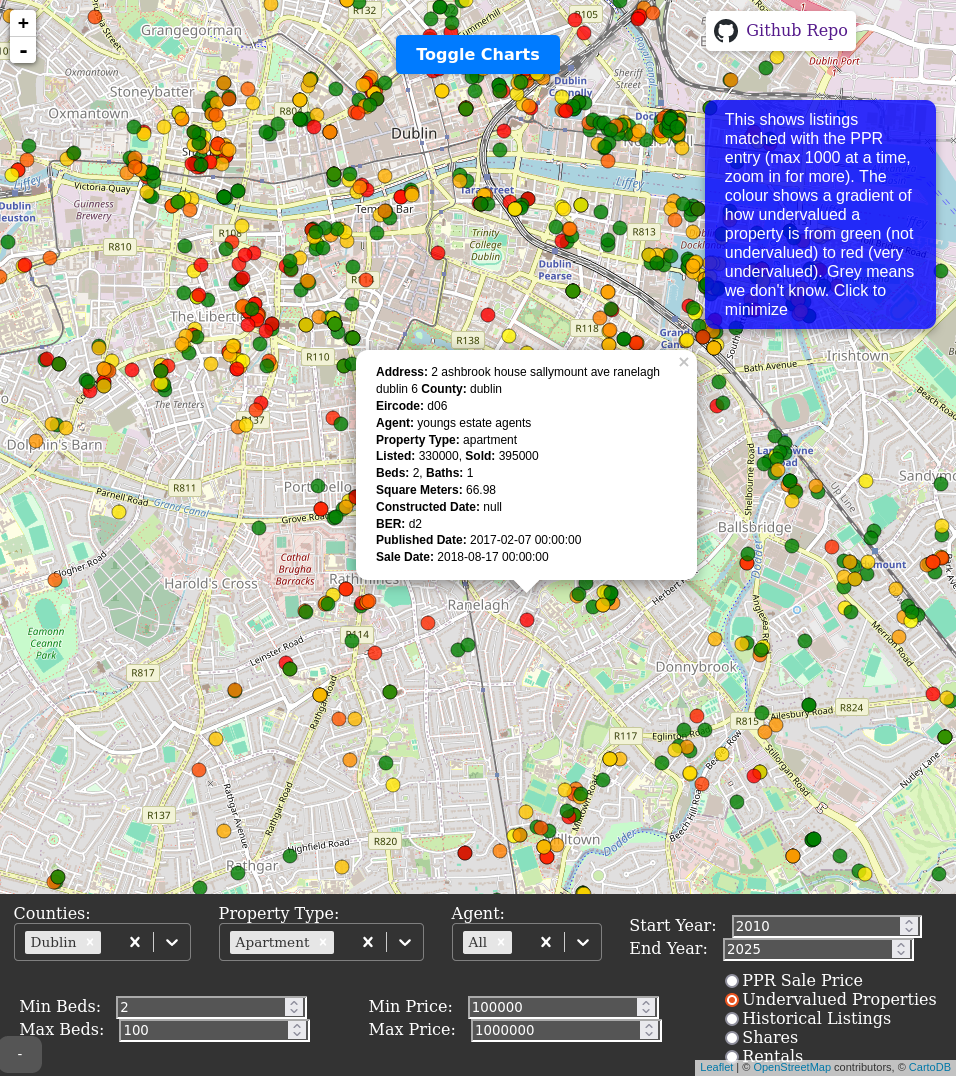
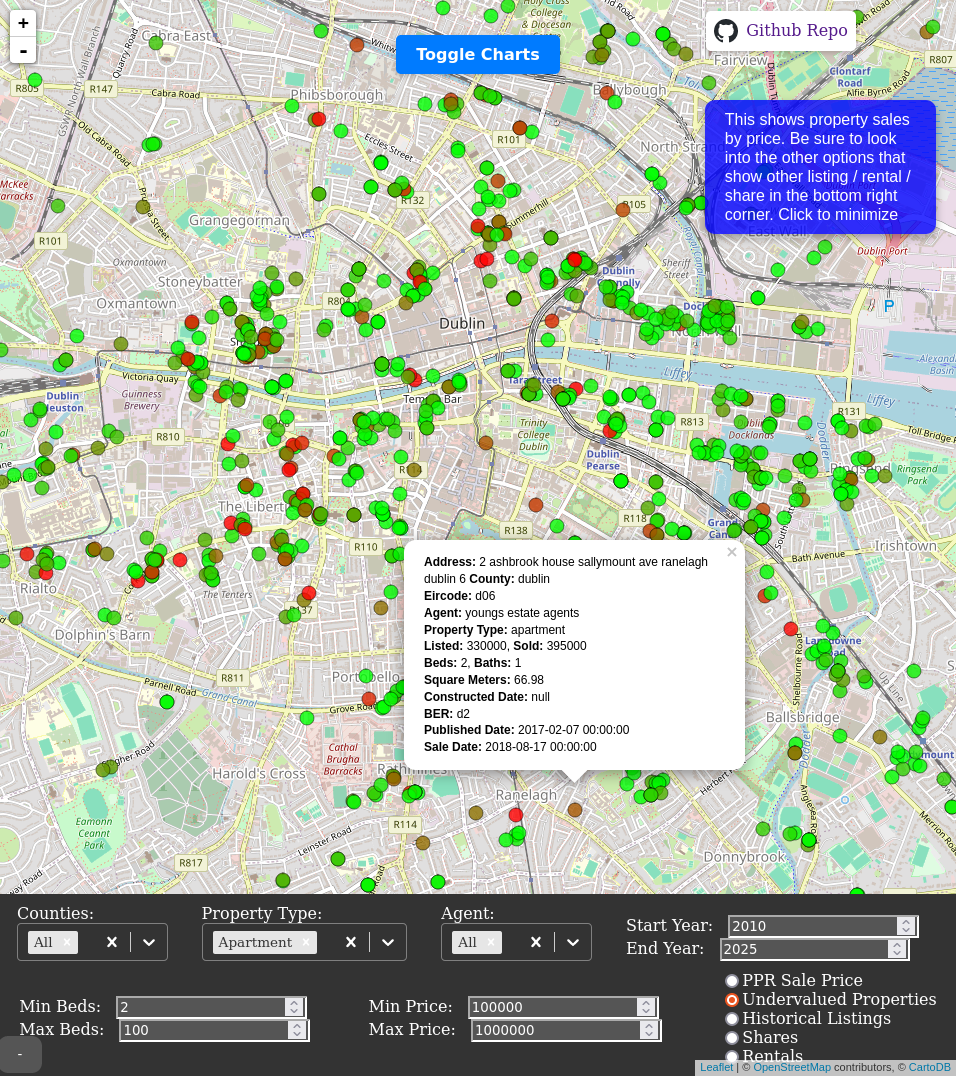
Undervalued % map nicer colours

diff --git a/src/Map.js b/src/Map.js
@@ -863,62 +863,47 @@ class Map extends Component {
       fillOpacity: 0.8,
     };
 
+    let value = null;
     if (this.state.dataOption === "matchedWithPPR") {
-      const underPc = feature.properties.under_pc;
-
-      if (underPc !== null) {
-        if (underPc <= 0) {
-          markerParams.fillColor = "green";
-        } else if (underPc >= 20) {
-          markerParams.fillColor = "red";
-        } else {
-          let intensity;
-          if (underPc <= 20) {
-            intensity = Math.min(underPc / 20, 1);
-          } else {
-            const adjustedValue = 20 + (underPc - 20) / 4;
-            intensity = Math.min(adjustedValue / 100, 1);
-          }
-          const greenValue = Math.floor(255 * (1 - intensity));
-          markerParams.fillColor = `rgb(255,${greenValue},0)`;
-        }
-      }
+      value = feature.properties.under_pc;
     } else {
-      let price = feature.properties.price;
-      let minValue = 0;
-      let maxValue = 0;
+      value = feature.properties.price;
+    }
+    let minValue = 0;
+    let maxValue = 0;
 
-      if (this.state.dataOption === "PPRPrice") {
-        minValue = 100000;
-        maxValue = 850000;
-      } else if (this.state.dataOption === "allHistoricalListings") {
-        minValue = 100000;
-        maxValue = 850000;
-      } else if (this.state.dataOption === "rentals") {
-        minValue = 800;
-        maxValue = 4000;
-      } else if (this.state.dataOption === "shares") {
-        minValue = 200;
-        maxValue = 1500;
-      }
-
-      if (price < minValue) price = minValue;
-      if (price > maxValue) price = maxValue;
-
-      const normalizedValue = (price - minValue) / (maxValue - minValue);
-      let red, green, blue;
-
-      red = Math.round(255 * normalizedValue);
-      green = Math.round(255 * (1 - normalizedValue));
-      blue = 0;
-
-      markerParams.fillColor =
-        "#" +
-        red.toString(16).padStart(2, "0") +
-        green.toString(16).padStart(2, "0") +
-        blue.toString(16).padStart(2, "0");
+    if (this.state.dataOption === "PPRPrice") {
+      minValue = 100000;
+      maxValue = 850000;
+    } else if (this.state.dataOption === "allHistoricalListings") {
+      minValue = 100000;
+      maxValue = 850000;
+    } else if (this.state.dataOption === "rentals") {
+      minValue = 800;
+      maxValue = 4000;
+    } else if (this.state.dataOption === "shares") {
+      minValue = 200;
+      maxValue = 1500;
+    } else if (this.state.dataOption === "matchedWithPPR") {
+      minValue = 0;
+      maxValue = 30;
     }
 
+    if (value < minValue) value = minValue;
+    if (value > maxValue) value = maxValue;
+
+    const normalizedValue = (value - minValue) / (maxValue - minValue);
+    let red, green, blue;
+
+    red = Math.round(255 * normalizedValue);
+    green = Math.round(255 * (1 - normalizedValue));
+    blue = 0;
+
+    markerParams.fillColor =
+      "#" +
+      red.toString(16).padStart(2, "0") +
+      green.toString(16).padStart(2, "0") +
+      blue.toString(16).padStart(2, "0");
     return L.circleMarker(latlng, markerParams);
   }
 
